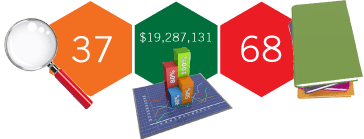
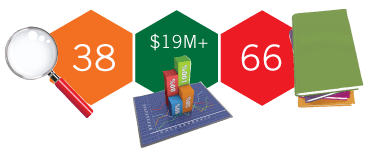
research updates

Changed region(s): [[0.0, 0.0, 0.9973, 1.0], [0.0, 0.3741, 0.3022, 0.777]]

diff --git a/sections/simon.php b/sections/simon.php
@@ -7,15 +7,15 @@ $title = "Research";
 $phrase = "Global leaders in CPD Research";
 $content = "
 	<ul>
-		<li>37 CEPD Research Grants</li>
+		<li>38 CEPD Research Grants</li>
 		<li>$19M+ CEPD Research Funds</li>
-		<li>68 CEPD Publications</li>
+		<li>66 CEPD Publications</li>
 	</ul>";
 $contentMobile = "
 	<ul>
-		<li>37 CEPD Research Grants</li>
+		<li>38 CEPD Research Grants</li>
 		<li>$19M+ CEPD Research Funds</li>
-		<li>68 CEPD Publications</li>
+		<li>66 CEPD Publications</li>
 	</ul>";
 	
 $item = "Research.png";
